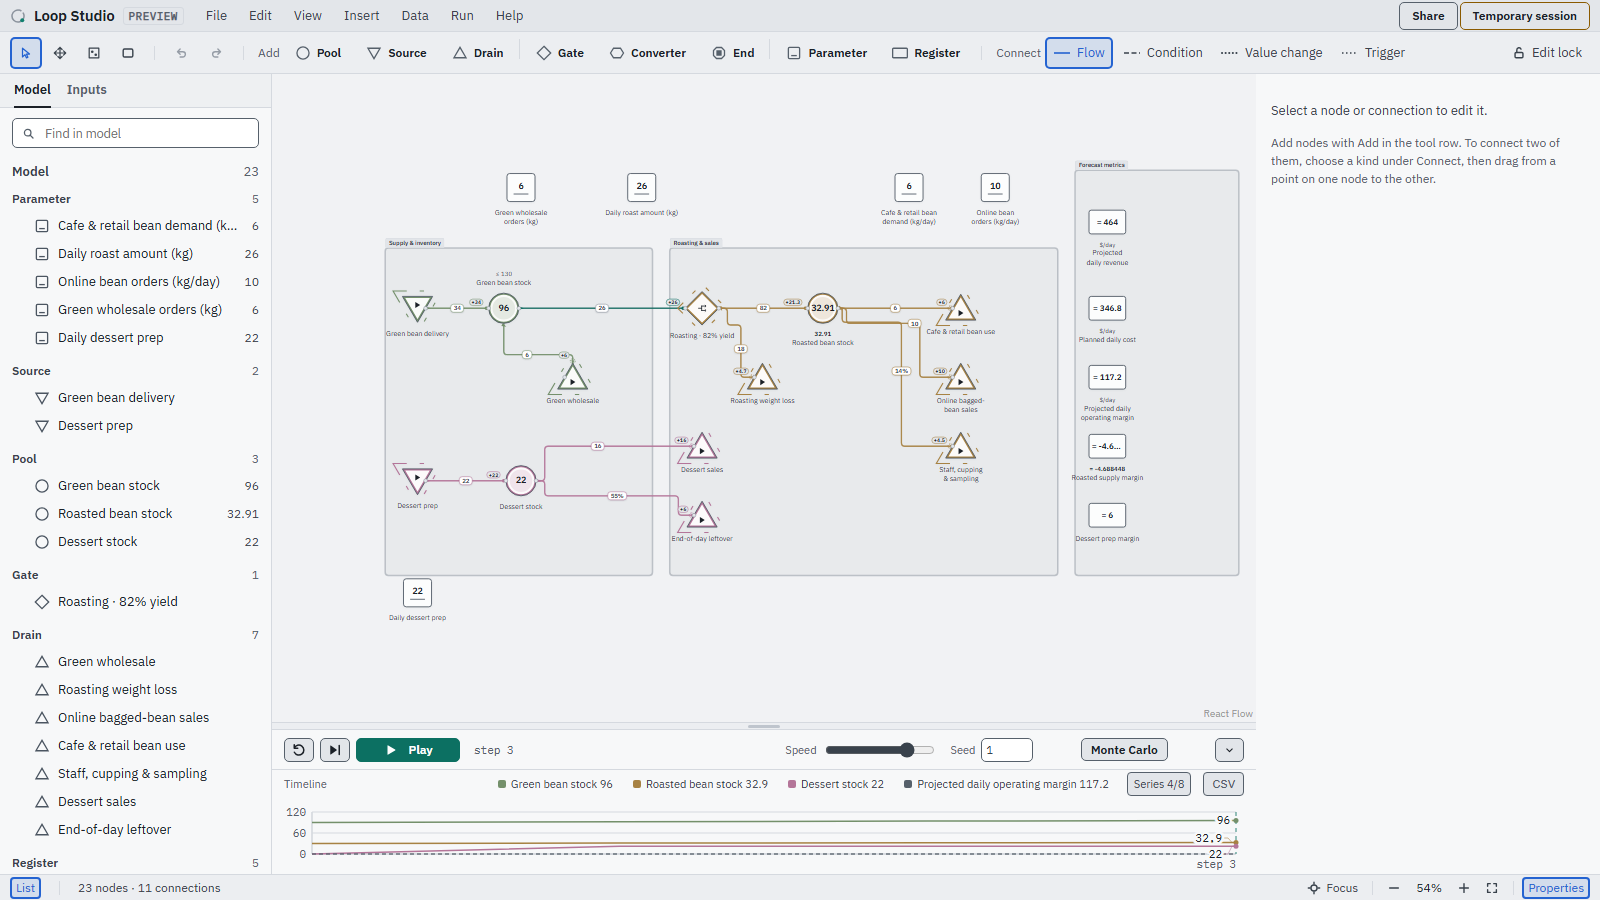
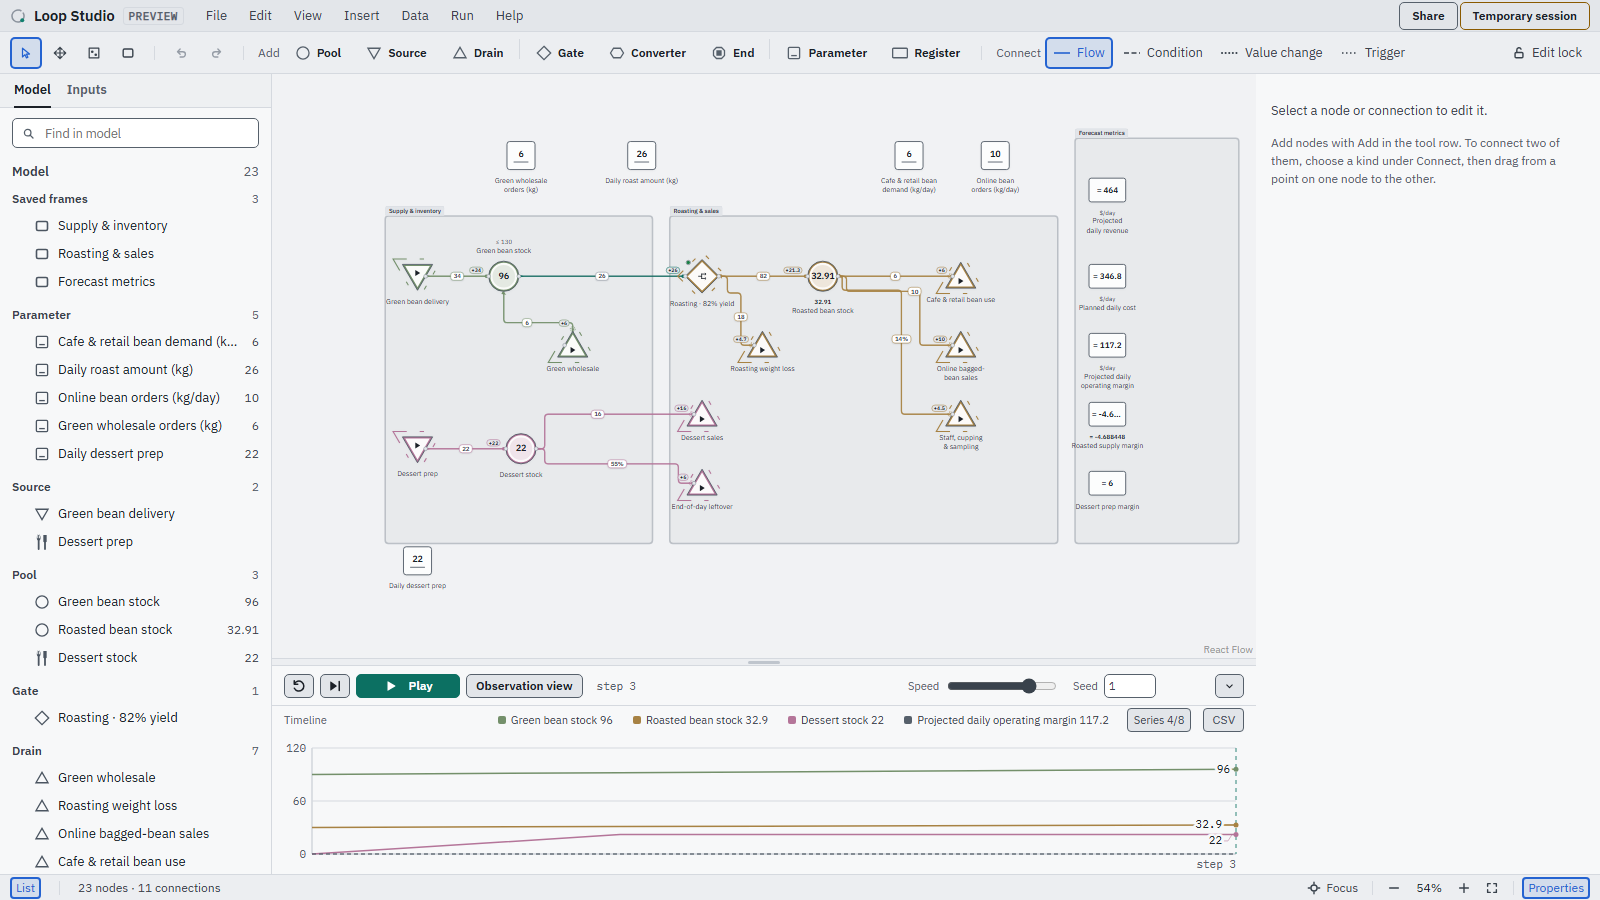
Release v0.32.0 (#549)
* Release v0.32.0

Raises the app version to 0.32.0 and moves the Unreleased CHANGELOG lines into the v0.32.0 section, with a summary of the release. The README leads with v0.32.0, keeps v0.31.0, v0.30.1 and v0.30.0, and folds v0.29.0 into the CHANGELOG sentence; its key features name kinds, units, timetables and run rules. Its Template list now matches the menu: seven Templates, the desalination plant, the coffee roastery and, under Games, the MMO and the gacha examples, in place of eight with two small production flows that left the menu. The three README screenshots are retaken on a production build of this branch, so they show the Observation view button and the Timeline at its one height, and their descriptions say so.

* The README shows the desalination example, and the pickup close-up moves to the 3-zone design doc
[…]

diff --git a/README.md b/README.md
@@ -15,12 +15,13 @@ session neither reads nor saves stored work, author information or settings
 ([docs/storage-sessions.md](docs/storage-sessions.md)).
 
 **Run it now: <https://cozy-loop-studio.pages.dev>** — available in
-[18 languages](#languages), with eight bundled Templates ranging from two
-small production flows and a coffee roastery's daily operations to an early MMO's
-levelling economy and gacha banners: three single-banner rule sets and a
-three-zone probability/pity comparison.
+[18 languages](#languages), with seven bundled Templates: a seawater
+desalination plant from intake to the city and the sea, checked over 90 days with
+chemical deliveries every 14 days; a coffee roastery's daily operations; and, under
+Games, an early MMO's levelling economy and gacha banners: three single-banner rule
+sets and a three-zone probability/pity comparison.
 
-![Loop Studio's workbench in a temporary session: the menu bar with its Temporary session button at the far end, the tool row, the list of every node on the left, and the Coffee roastery Template as node symbols with each name below, grouped into three labelled zone frames with its money in $/day, a few steps into a run with the Timeline filling in below](docs/assets/hero-coffee.png)
+![Loop Studio's workbench in a temporary session: the menu bar with its Temporary session button at the far end, the tool row, the list of every node on the left, and the Coffee roastery Template as node symbols with each name below, grouped into three labelled zone frames with its money in $/day, three steps into a run: the run row with Play and its Observation view button, and the Timeline filling in below](docs/assets/hero-coffee.png)
 
 ## Key features
 
@@ -28,6 +29,9 @@ three-zone probability/pity comparison.
   resources move between them on a deterministic, discrete-step simulation;
   select a region of nodes from the rail and move them together, or place nodes
   in a named frame that moves with its contents
+- **Kinds, units, timetables and run rules** — name a document's resource
+  kinds and their units, say how long a step is, keep a kind balanced, drive a
+  connection from a timetable, and run a stage by a rule, all made on screen
 - **Seeded RNG + Monte Carlo** — probabilistic gates and flows, and
   many-run outcome distributions with percentile bands
 - **A small model language** — `parameter` / `register` nodes with a safe
@@ -87,26 +91,32 @@ language's review status, and describes how the language is chosen.
 
 ## Representative use cases
 
-The bundled Templates come from different fields — a small production flow, a
-coffee roastery's daily operations, and a game's probability rules — because
-the model is about flows and states, not about one genre. The one with the most
-moving parts is a game example:
+The bundled Templates come from different fields — a desalination plant's water
+balance, a coffee roastery's daily operations, and a game's probability rules — because
+the model is about flows and states, not about one genre.
 
-The *3-zone gacha banner comparison* Template runs three pity/pickup rule
+The *Seawater desalination process* Template follows water from intake through
+pretreatment, reverse osmosis and post-treatment to the city and the sea, in five
+numbered frames. A day of demand drives it, six run rules move its stages, and its
+six chemical tanks are refilled by deliveries every 14 days; it is checked over 90
+days. The Timeline shows the tanks in one tab and, in the other, each stage's run
+against its target and each delivery against what moved.
+
+![The Seawater desalination Template fifteen days into a run: its five numbered process frames from Intake to Discharge and solids on the canvas, the list of every node on the left with each Pool's amount, the run row with Play and the Observation view button, and the Timeline on its Timetables and run rules tab showing the hypochlorite deliveries: what a delivery made available, dotted, standing at 300 kg per day above what moved, solid, with the words "available" and "moved" at the line ends](docs/assets/desalination-process.png)
+
+The game example with the most moving parts is the *3-zone gacha banner
+comparison* Template, which runs three pity/pickup rule
 sets — **General/Free**, **Premium Standard** (hard-pity ceiling), and
 **Premium Pickup** (hard-pity + a pickup guarantee) — side by side, 200 pulls
 per zone under identical run settings. Once a run completes, its hit and
 pickup rates are easy to compare; run Monte Carlo analysis to inspect the
 distribution across many runs.
 
-![The gacha Template after a completed 200-pull-per-zone run, its comparison row above the zone frames side by side below it: five comparison cards reading real hit-rate/pickup-rate percentages, a Timeline with per-zone SSR/pickup curves, and a Register's expression read-back open in the right panel](docs/assets/gacha-overview.png)
+![The 3-zone gacha Template after a completed 200-pull-per-zone run, its Comparison row across the top of the canvas with five cards: 200 pulls per zone, the hit rates of General / Free at 0.5 %, Premium Standard at 1 % and Premium Pickup at 2 %, and Premium Pickup's pickup rate at 1.5 %; below them only the top of the General / Free zone and the left edge of Premium Standard; the run row at its end with Replay and the Observation view button; the Timeline with each zone's SSR count and the Pickup wins as stepped lines; and the selected pickup-rate Register's read-back, Pickup wins 3 / Pulls per zone 200 = 1.5 %, in the right panel](docs/assets/gacha-overview.png)
 
-*Premium Pickup, framed on its own* — the hard-pity counter forces the next
-roll's SSR once it hits the ceiling; whether that (or any ordinary) SSR lands
-as pickup or standard depends on the `Pickup owed` guarantee flag, which a
-miss sets and the next SSR consumes.
-
-![The Premium Pickup zone alone after the same completed run, with the Timeline and the node list folded away: the hard-pity counter against its ceiling, the Pickup-owed guarantee flag, a real Pickup/Standard hit split, and a selected Pool open in the right panel with its current amount](docs/assets/gacha-pickup-guarantee.png)
+How the Premium Pickup zone's hard-pity counter and pickup guarantee work, with
+that zone framed on its own, is in
+[`docs/gacha-banner-zones.md` §GZ5](docs/gacha-banner-zones.md#gz5-engine-mapping--the-pickup-guarantee-zone-3-only).
 
 ## Develop locally
 
@@ -147,7 +157,27 @@ Additional feature-specific design documents (localization, mobile, module
 system, large-graph readability, simulation playback, edge routing, data
 import, …) live under [`docs/`](docs/).
 
-## Latest — v0.31.0
+## Latest — v0.32.0
+
+Timetables, run rules and units, shown in a seawater desalination process example, and a
+Timeline built for reading a run.
+
+- **Timetables and run rules**: a connection can follow a rate that changes over time, as a
+  plan or as what a supply can give, and a stage can be run by a rule; both are made on screen,
+  and the Timeline draws each under the chart, with a word at each line's end
+- **Resource kinds with units**: a document can name its kinds and their units, say how long
+  one step is, and keep a kind balanced; the Inspector, the Timeline and downloads read in the
+  units you chose
+- **The seawater desalination process**: a facility example from intake to the city and the
+  sea, checked over 90 days, with chemical deliveries every 14 days and a pause when the plant
+  first stops
+- **A Timeline for reading a run**: one height whatever it holds, strips in a tab of their own,
+  a step preview under the pointer, and one meaning for each line pattern
+- **An observation view**: hides the side panels and the tool row while a run plays
+- **Node icons**, a state light on every Gate, and the game examples under Templates ▸ Games
+- **The run engine no longer loses resources** between Gates, Converters and capped Pools
+
+## v0.31.0
 
 Eighteen languages again, and a round of workbench clarity.
 
@@ -188,24 +218,9 @@ The menus and the canvas, tidied.
 - **Check marks beside their names** in the View menu and Edit ▸ Edit lock
 - **No minimap**: Reset view and Fit show the whole diagram; panning and zooming are unchanged
 
-## v0.29.0
-
-The workbench release: the desktop editing screen is redesigned as a workbench
-([`docs/workbench.md`](docs/workbench.md)).
-
-- **The workbench**: a menu bar, a tool row, a searchable list of every node on the left, the
-  properties panel on the right (what the selection does in the model first, then its fields),
-  the run controls and timeline under the canvas, and a status bar; the list and the panel fold
-  at narrower widths
-- **Nodes as symbols**: each kind of node is a small symbol with its number inside and its name
-  below; your documents keep their positions, names, formulas and line routes
-- **New colours, light and dark**, and names that stay when you zoom all the way out
-- **Structures in the File menu**: save a selected structure to a file and insert such a file
-  as one undo step; the Insert module menu is gone
-- **Languages at this release**: English and Korean only — the other sixteen returned in
-  v0.31.0
-
-See [`CHANGELOG.md`](CHANGELOG.md) for the full notes of these releases, v0.28.4 (starting
+See [`CHANGELOG.md`](CHANGELOG.md) for the full notes of these releases, v0.29.0 (the
+workbench: a menu bar, a tool row, the node list and the properties panel around the canvas,
+and nodes as symbols; [`docs/workbench.md`](docs/workbench.md)), v0.28.4 (starting
 and finishing a connection responds faster), v0.28.3 (Undo and Redo leave nothing selected),
 v0.28.2 (resource connections on two sides of one port branch on their own), v0.28.1 (a
 connection's label keeps off the bend points you placed on it), v0.28.0 (a

diff --git a/CHANGELOG.md b/CHANGELOG.md
@@ -7,6 +7,10 @@ a release yet is under **Unreleased** ([`docs/release-notes.md`](docs/release-no
 
 ## Unreleased
 
+## v0.32.0 — 2026-11-11
+
+Timetables, run rules and resource kinds with their own units, shown in a new seawater desalination process example; a Timeline that keeps one height, shows its strips in a tab of their own and gives each line pattern one meaning; an observation view for watching a run; node icons; the game examples grouped under Templates ▸ Games; and a run engine that no longer loses resources between Gates and Converters.
+
 - **Each Timeline line pattern means one thing.** A run strip's target and what an available timetable offers are now drawn as round dots, at the same width as the run, so they no longer look like a Register's dashes or a dashed series; a Register keeps its dashes, and a dashed series only ever means several tanks that share one colour. Each strip line also carries a word at its end, "target" and "ran" or "available" and "moved", in a space right of the plot that no line crosses, and the two words stay apart when the lines meet. The chart above keeps the same right edge, so a step stands at the same place in both. The strip names, their spoken names and Help say "dotted" in every language.
 - **The game examples have a group of their own.** File ▸ Templates lists the desalination and coffee roastery examples, then Games ›, which shows the MMO and the four gacha examples in their place, with a row back to the Templates; Escape or Arrow Left goes back too, and the next Escape closes the menu. The phone's Templates sheet does the same, and each example there is now a full-width row with its name on one line and its description under it, so a long name no longer breaks over several lines. Help ▸ Example notes lists the game examples under a Games heading. Opening an example is unchanged.
 - **Timeline tabs for documents with several strips.** When a document has two or more timetable or run-rule strips, the Timeline shows the pools' chart and the strips as two tabs, Pools and Timetables and run rules, in one area that keeps its height: one strip at a time, picked from a list. The area no longer grows for the strips, so the desalination example's Timeline opens 120 px lower and the canvas has that room; only the auto-play pause line and run notices add height. The pinned step, the CSV and the picked strip are kept across a switch, and the tabs work from the keyboard. The lowest value at the chart's right end no longer touches the step label under it.

diff --git a/docs/gacha-banner-zones.md b/docs/gacha-banner-zones.md
@@ -485,6 +485,10 @@ probabilistic `roll_gate_free`, nothing else (GZ-D2).
 `docs/parameter-activator.md` (which only reviewed the pity ceiling) — this
 is this document's own contribution.
 
+*Premium Pickup, framed on its own* (v0.32.0; it was the README's third screenshot until then): the hard-pity counter forces the next roll's SSR once it hits the ceiling, and whether that SSR, or any ordinary one, lands as pickup or standard depends on the `Pickup owed` guarantee flag, which a miss sets and the next SSR consumes.
+
+![The Premium Pickup zone alone after a completed 200-pull-per-zone run, with the Timeline and the node list folded away and only the run row left under the canvas: the hard-pity counter against its ceiling, the Pickup-owed guarantee flag, a real Pickup/Standard hit split, and a selected Pool open in the right panel with its current amount](assets/gacha-pickup-guarantee.png)
+
 ### GZ5.0 Why the original relay-Pool shape (rounds 1–2) was wrong
 
 The first two drafts routed every SSR result into a relay Pool
